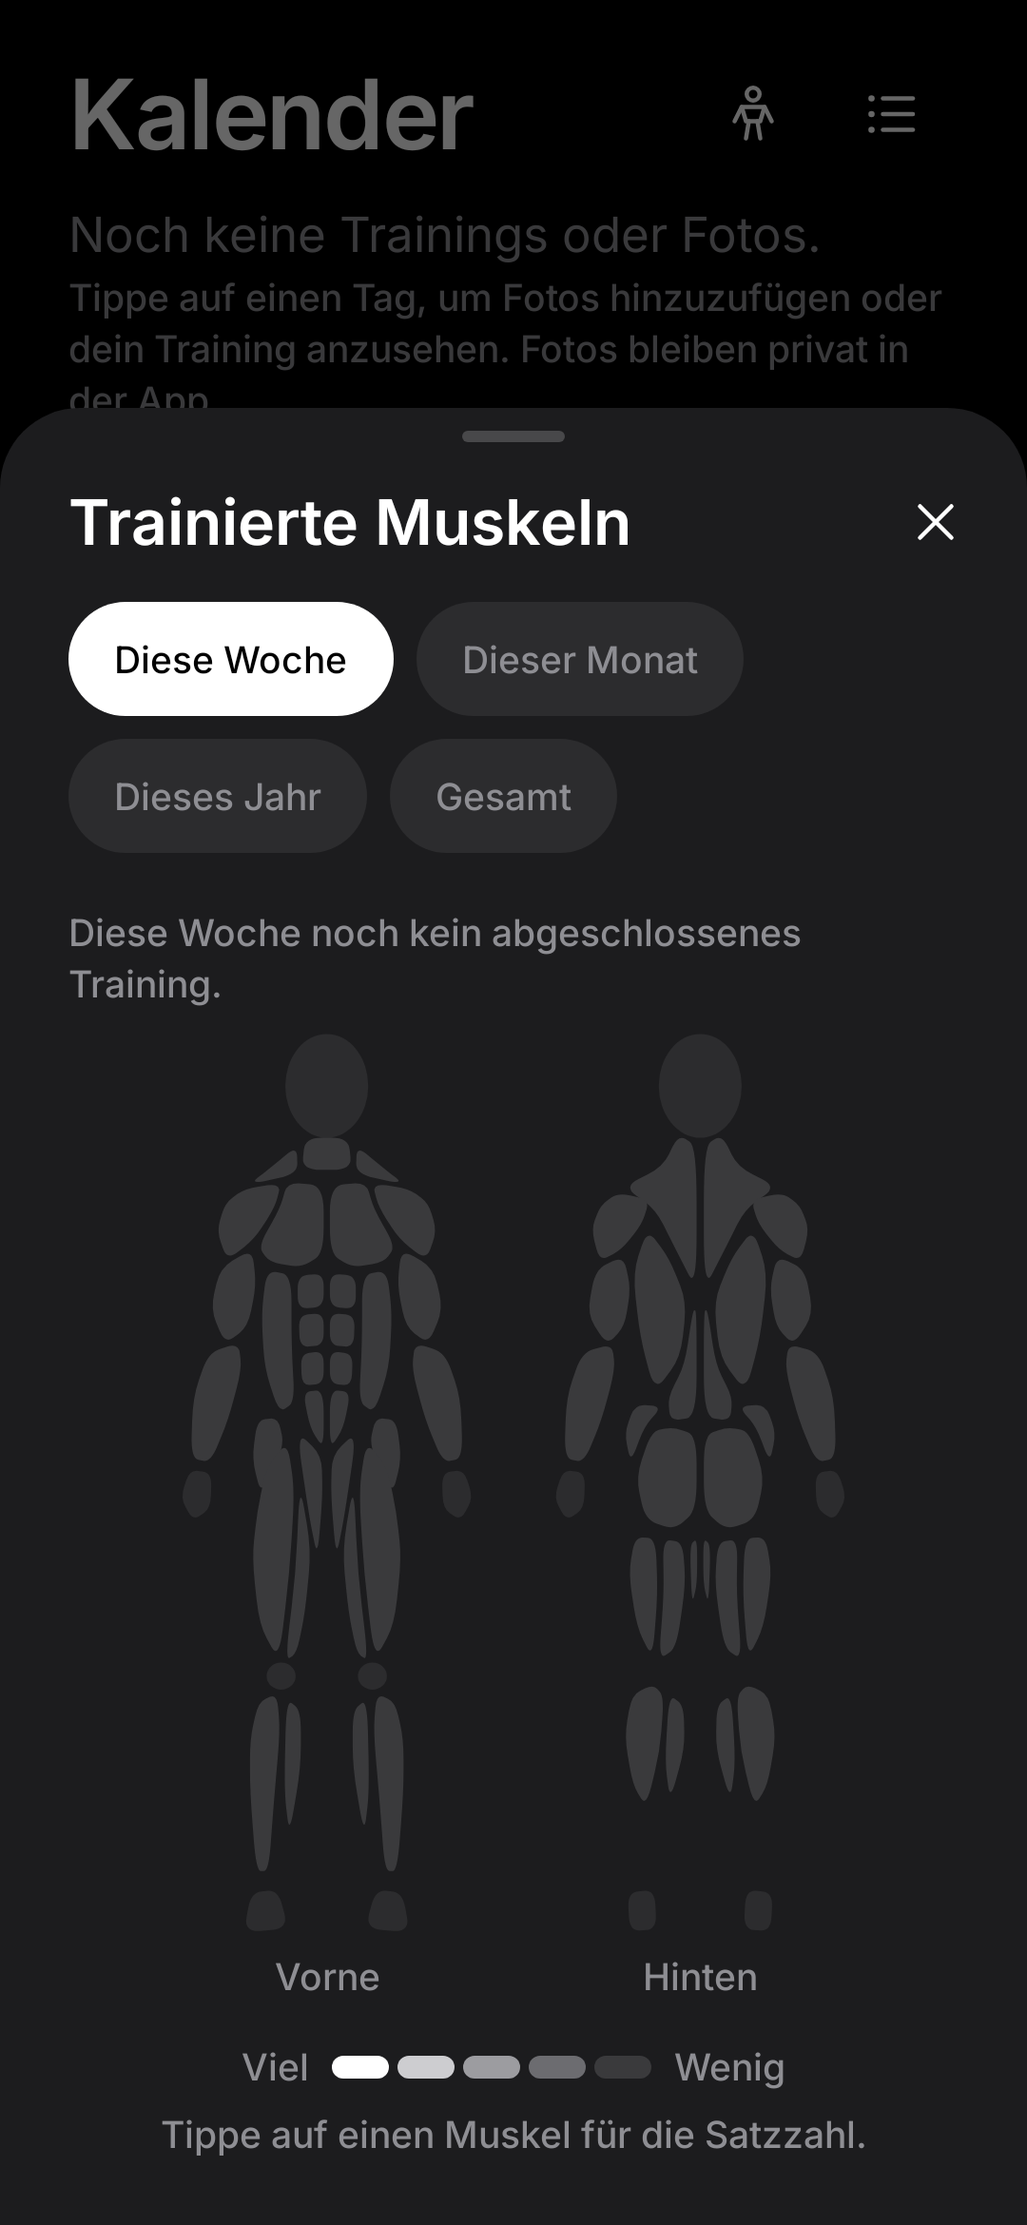
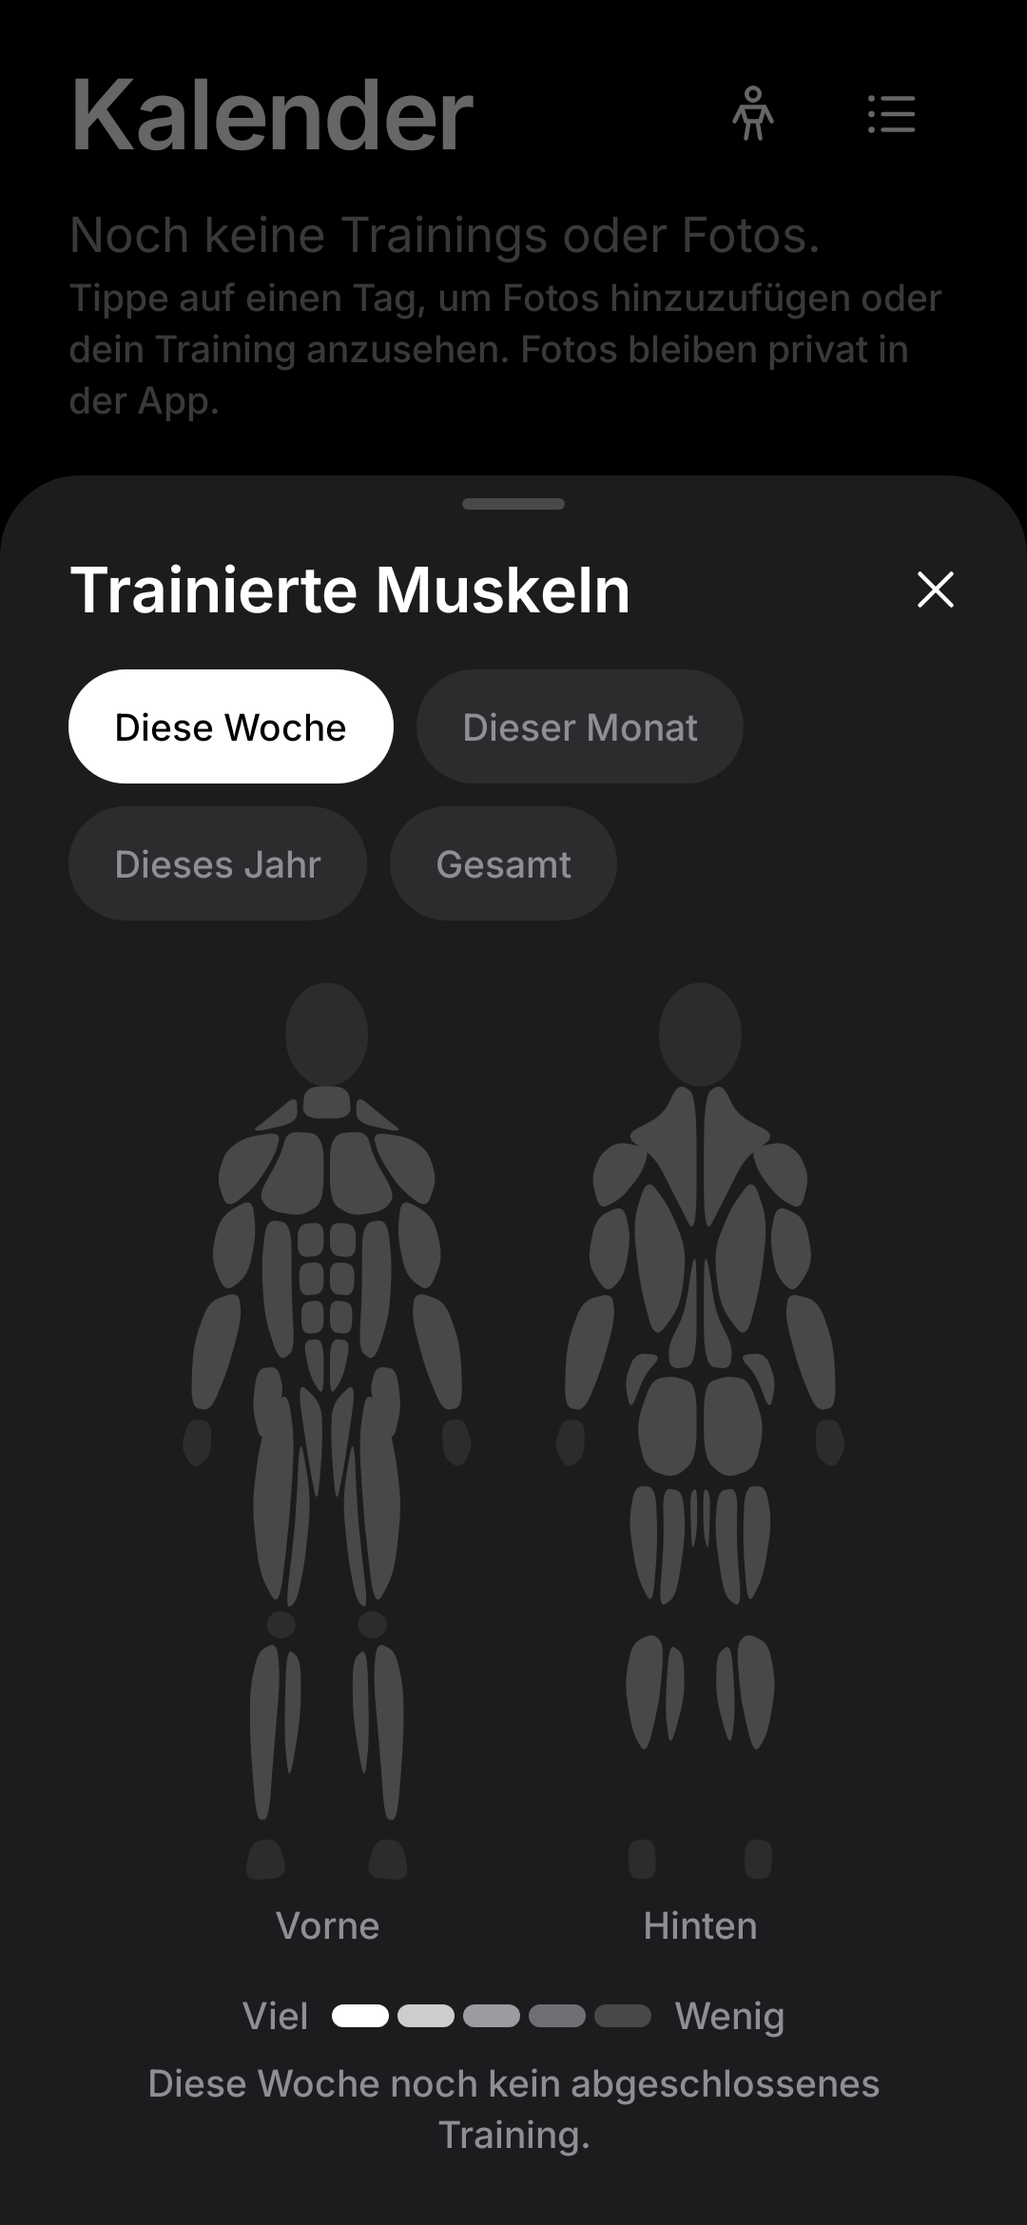
Muskel-Heatmap: Befunde aus dem Gegencheck, CI-Test scrollt zur Übungskarte
- ExerciseImageTapTest: Übungskarte liegt jetzt unter dem Muskel-Abschnitt, vorher hinscrollen
- Tipp-Erkennung mit rememberUpdatedState, Leer-Hinweis statt Layoutsprung, Text '+ 3 Sätze mittrainiert'
- Kontrast untrainierter Muskeln erhöht, toter String entfernt, Icon-Kommentar
- Tests: DB-Abfrage (nur abgehakte Sätze beendeter Trainings), Zeitzone, Hit-Test; App-Test robust um Mitternacht

Claude-Session: https://claude.ai/code/session_01PBv5TptMvgrVaxi2qeGDRd

diff --git a/shared/src/commonMain/kotlin/app/overfit/ui/muscles/MuscleMapViews.kt b/shared/src/commonMain/kotlin/app/overfit/ui/muscles/MuscleMapViews.kt
@@ -77,7 +77,7 @@ import kotlin.math.roundToInt
 
 /** Shade per level: 0 = untrained (dark grey) … [MuscleMap.LEVELS] = most (white). No accent colour. */
 internal val LevelColors = listOf(
-    Color(0xFF3A3A3C), Color(0xFF6C6C70), Color(0xFF9C9CA0), Color(0xFFCDCDD0), Color(0xFFFFFFFF),
+    Color(0xFF48484A), Color(0xFF707074), Color(0xFF9C9CA0), Color(0xFFCDCDD0), Color(0xFFFFFFFF),
 )
 
 /** Remembers the period of the calendar's muscle sheet. */
@@ -170,11 +170,14 @@ fun BodyMap(
         val density = LocalDensity.current
         val size = with(density) { Size(maxWidth.toPx(), (maxHeight - labelHeight).toPx().coerceAtLeast(1f)) }
         val layout = remember(size) { BodyLayout(size) }
-        val tap = if (onSelect == null) Modifier else Modifier.pointerInput(layout, selected, onSelect) {
+        // Latest selection/callback without restarting the gesture detector on every recomposition.
+        val current by androidx.compose.runtime.rememberUpdatedState(selected)
+        val select by androidx.compose.runtime.rememberUpdatedState(onSelect)
+        val tap = if (onSelect == null) Modifier else Modifier.pointerInput(layout) {
             detectTapGestures { c ->
                 val (back, p) = layout.toFigure(c)
                 val hit = BodyShapes.hit(if (back) BodyShapes.back else BodyShapes.front, p)
-                onSelect(if (hit == selected) null else hit)
+                select?.invoke(if (hit == current) null else hit)
             }
         }
         Canvas(
@@ -186,7 +189,7 @@ fun BodyMap(
                     val muscle = shape.muscle
                     val color = if (muscle == null) base else LevelColors[levels[muscle] ?: 0]
                     val faded = selected != null && muscle != selected
-                    drawPath(shape.path(layout, back), color, alpha = if (faded) 0.35f else 1f)
+                    drawPath(shape.path(layout, back), color, alpha = if (faded) 0.45f else 1f)
                 }
             }
         }
@@ -222,7 +225,7 @@ fun MuscleLegend(modifier: Modifier = Modifier) {
 
 /** Figure, legend and the line for the tapped muscle; shared by the calendar sheet and the training detail. */
 @Composable
-fun MuscleMapBody(loads: Map<Muscle, MuscleLoad>, figureHeight: Dp, modifier: Modifier = Modifier) {
+fun MuscleMapBody(loads: Map<Muscle, MuscleLoad>, figureHeight: Dp, modifier: Modifier = Modifier, emptyText: String? = null) {
     val m = LocalStrings.current.muscles
     var selected by remember { mutableStateOf<Muscle?>(null) }
     val levels = remember(loads) { MuscleMap.levels(loads) }
@@ -241,7 +244,7 @@ fun MuscleMapBody(loads: Map<Muscle, MuscleLoad>, figureHeight: Dp, modifier: Mo
         MuscleLegend()
         Spacer(Modifier.height(Space.s))
         val s = selected
-        val line = if (s == null) m.tapHint else (loads[s] ?: MuscleLoad()).let { m.load(m.muscle(s), it.primary, it.secondary) }
+        val line = if (s == null) (if (loads.isEmpty() && emptyText != null) emptyText else m.tapHint) else (loads[s] ?: MuscleLoad()).let { m.load(m.muscle(s), it.primary, it.secondary) }
         Text(
             line,
             Modifier.fillMaxWidth().testTag("muscle-line"),
@@ -315,11 +318,8 @@ fun MuscleMapSheetContent(
             }
             Spacer(Modifier.height(Space.m))
             if (loads != null) {
-                if (loads.isEmpty()) {
-                    Text(m.emptyPeriod(period), Modifier.fillMaxWidth().padding(bottom = Space.s), style = Theme.type.caption, tone = Tone.Muted)
-                }
-                // A new period starts without a selection.
-                androidx.compose.runtime.key(period) { MuscleMapBody(loads, figureHeight = 320.dp) }
+                // A new period starts without a selection; "nothing yet" replaces the tap hint (no layout jump).
+                androidx.compose.runtime.key(period) { MuscleMapBody(loads, figureHeight = 320.dp, emptyText = m.emptyPeriod(period)) }
             } else {
                 Spacer(Modifier.height(360.dp))
             }

diff --git a/app/src/test/java/app/overfit/data/MuscleSetsQueryTest.kt b/app/src/test/java/app/overfit/data/MuscleSetsQueryTest.kt
@@ -1,0 +1,67 @@
+package app.overfit.data
+
+import androidx.room.Room
+import androidx.test.core.app.ApplicationProvider
+import app.overfit.data.db.OverfitDatabase
+import app.overfit.domain.Exercise
+import app.overfit.domain.Muscle
+import app.overfit.domain.MuscleSetRow
+import app.overfit.domain.TrackingType
+import app.overfit.domain.Workout
+import kotlinx.coroutines.flow.first
+import kotlinx.coroutines.test.runTest
+import org.junit.After
+import org.junit.Assert.assertEquals
+import org.junit.Before
+import org.junit.Test
+import org.junit.runner.RunWith
+import org.robolectric.RobolectricTestRunner
+
+/** [WorkoutRepository.muscleSets]: only completed sets of finished workouts, one row per exercise entry. */
+@RunWith(RobolectricTestRunner::class)
+class MuscleSetsQueryTest {
+    private lateinit var db: OverfitDatabase
+    private lateinit var exercises: ExerciseRepository
+    private lateinit var workouts: WorkoutRepository
+    private var seq = 0
+
+    @Before
+    fun setUp() {
+        db = Room.inMemoryDatabaseBuilder<OverfitDatabase>(ApplicationProvider.getApplicationContext()).allowMainThreadQueries().build()
+        exercises = ExerciseRepository(db)
+        workouts = WorkoutRepository(db, clock = { 123L }, photoFiles = InMemoryPhotoFiles())
+    }
+
+    @After
+    fun tearDown() = db.close()
+
+    private suspend fun custom(name: String, primary: List<Muscle>, secondary: List<Muscle> = emptyList()): Exercise =
+        exercises.get(exercises.createCustom(CustomExerciseInput(name, TrackingType.REPS, 60, primary = primary, secondary = secondary)))!!
+
+    /** Workout with [ex] added once per entry; [done] completed sets of each entry (of 3). */
+    private fun workout(id: String, start: Long, vararg entries: Pair<Exercise, Int>): Workout {
+        var w = Workout.empty(id, start, id = id)
+        entries.forEach { (ex, _) -> w = w.addExercise(Workout.added(ex, emptyList()) { "g${seq++}" }) }
+        entries.forEachIndexed { i, (_, done) -> w.exercises[i].sets.take(done).forEach { s -> w = w.completeSet(s.id, start + 1) } }
+        return w
+    }
+
+    @Test
+    fun countsOnlyCompletedSetsOfFinishedWorkouts() = runTest {
+        val dips = custom("Dips", listOf(Muscle.TRICEPS), listOf(Muscle.CHEST))
+        val curl = custom("Curl", listOf(Muscle.BICEPS))
+        // Finished: dips twice (2 and 1 sets done), curl with nothing done.
+        workouts.finish(workout("f", 1000, dips to 2, dips to 1, curl to 0), endedAt = 2000)
+        // Still running: does not count.
+        workouts.save(workout("a", 5000, curl to 3))
+
+        val rows = workouts.muscleSets.first().sortedBy { it.sets }
+        assertEquals(
+            listOf(
+                MuscleSetRow(1000, listOf(Muscle.TRICEPS), listOf(Muscle.CHEST), 1),
+                MuscleSetRow(1000, listOf(Muscle.TRICEPS), listOf(Muscle.CHEST), 2),
+            ),
+            rows,
+        )
+    }
+}

diff --git a/shared/src/commonMain/kotlin/app/overfit/i18n/MuscleStrings.kt b/shared/src/commonMain/kotlin/app/overfit/i18n/MuscleStrings.kt
@@ -16,10 +16,9 @@ data class MuscleStrings(
     val muscle: (Muscle) -> String,
     /** Hint below the figure before anything is tapped. */
     val tapHint: String,
-    /** "Brust · 6 Sätze" plus the assisting part, e.g. "· 4 mittrainiert". */
+    /** "Brust · 6 Sätze" plus the assisting part, e.g. "+ 4 Sätze mittrainiert". */
     val load: (muscle: String, primary: Int, secondary: Int) -> String,
     val emptyPeriod: (MusclePeriod) -> String,
-    val emptyWorkout: String,
     /** Accessibility summary of the figure: the trained muscles, most first. */
     val summary: (List<String>) -> String,
 )
@@ -47,7 +46,7 @@ val MuscleGerman = MuscleStrings(
     tapHint = "Tippe auf einen Muskel für die Satzzahl.",
     load = { m, p, s ->
         when {
-            p > 0 && s > 0 -> "$m · ${setsDe(p)} · $s mittrainiert"
+            p > 0 && s > 0 -> "$m · ${setsDe(p)} + ${setsDe(s)} mittrainiert"
             p > 0 -> "$m · ${setsDe(p)}"
             s > 0 -> "$m · ${setsDe(s)} mittrainiert"
             else -> "$m · nicht trainiert"
@@ -61,7 +60,6 @@ val MuscleGerman = MuscleStrings(
             MusclePeriod.TOTAL -> "Noch kein abgeschlossenes Training."
         }
     },
-    emptyWorkout = "Keine abgeschlossenen Sätze.",
     summary = { if (it.isEmpty()) "Keine Muskeln trainiert" else "Trainiert: " + it.joinToString(", ") },
 )
 
@@ -85,7 +83,7 @@ val MuscleEnglish = MuscleStrings(
     tapHint = "Tap a muscle to see its sets.",
     load = { m, p, s ->
         when {
-            p > 0 && s > 0 -> "$m · ${setsEn(p)} · $s assisting"
+            p > 0 && s > 0 -> "$m · ${setsEn(p)} + ${setsEn(s)} assisting"
             p > 0 -> "$m · ${setsEn(p)}"
             s > 0 -> "$m · ${setsEn(s)} assisting"
             else -> "$m · not trained"
@@ -99,6 +97,5 @@ val MuscleEnglish = MuscleStrings(
             MusclePeriod.TOTAL -> "No finished training yet."
         }
     },
-    emptyWorkout = "No completed sets.",
     summary = { if (it.isEmpty()) "No muscles trained" else "Trained: " + it.joinToString(", ") },
 )

diff --git a/app/src/test/java/app/overfit/ui/MuscleMapTest.kt b/app/src/test/java/app/overfit/ui/MuscleMapTest.kt
@@ -50,6 +50,7 @@ import org.robolectric.RobolectricTestRunner
 import org.robolectric.annotation.Config
 import org.robolectric.annotation.GraphicsMode
 import java.io.File
+import kotlinx.datetime.atStartOfDayIn
 
 /**
  * Fabian's wish "Training Frequency" in the real app: calendar title → body icon → sheet with the muscles of this
@@ -103,16 +104,19 @@ class MuscleMapTest {
         store.setName("Fabi")
         store.completeOnboarding()
         val now = System.currentTimeMillis()
+        // "Push" must fall on today (and so this week) even right after midnight.
+        val startOfToday = realToday().atStartOfDayIn(kotlinx.datetime.TimeZone.currentSystemDefault()).toEpochMilliseconds()
+        val pushStart = maxOf(startOfToday, now - 10 * 60_000)
         // "Push" today (first exercise: two sets done), plus a calf workout more than a year ago.
         val pushLoads = runBlocking {
             data.seedCatalog().getOrThrow()
             data.importer.addSamples()
             val push = data.templates.templates.first().first { it.name == "Push" }
-            var w = Workout.fromTemplate(data.templates.get(push.id)!!, now - 10 * 60_000, id = "push")
+            var w = Workout.fromTemplate(data.templates.get(push.id)!!, pushStart, id = "push")
             val sets = w.exercises[0].sets
             w = w.setValues(sets[0].id, SetValues(60.0, 8)).completeSet(sets[0].id, w.startedAt + 60_000)
             w = w.setValues(sets[1].id, SetValues(60.0, 8)).completeSet(sets[1].id, w.startedAt + 120_000)
-            data.workouts.finish(w, endedAt = now - 60_000)
+            data.workouts.finish(w, endedAt = now)
 
             val calf = data.exercises.getActive().first { it.primaryMuscles == listOf(Muscle.CALVES) }
             val old = now - 400L * 24 * 3_600_000

diff --git a/shared/src/commonTest/kotlin/app/overfit/ui/muscles/BodyShapesTest.kt b/shared/src/commonTest/kotlin/app/overfit/ui/muscles/BodyShapesTest.kt
@@ -1,0 +1,37 @@
+package app.overfit.ui.muscles
+
+import androidx.compose.ui.geometry.Offset
+import app.overfit.domain.Muscle
+import app.overfit.domain.MuscleMap
+import kotlin.test.Test
+import kotlin.test.assertEquals
+import kotlin.test.assertNull
+import kotlin.test.assertTrue
+
+class BodyShapesTest {
+    @Test fun everyShownMuscleHasARegion() {
+        val drawn = (BodyShapes.front + BodyShapes.back).mapNotNull { it.muscle }.toSet()
+        assertEquals(MuscleMap.shown.toSet(), drawn)
+    }
+
+    @Test fun tapOnARegionCentreHitsThatMuscle() {
+        listOf(BodyShapes.front, BodyShapes.back).forEach { shapes ->
+            shapes.filter { it.muscle != null }.forEach { shape ->
+                assertEquals(shape.muscle, BodyShapes.hit(shapes, shape.center), "${shape.muscle} at ${shape.center}")
+            }
+        }
+    }
+
+    @Test fun headAndEmptySpaceHitNothingButANearMissOnASmallRegionCounts() {
+        assertNull(BodyShapes.hit(BodyShapes.front, Offset(50f, 14f))) // head
+        assertNull(BodyShapes.hit(BodyShapes.front, Offset(5f, 100f))) // beside the figure
+        // Just outside the back adductor sliver (x 48–49.4) still selects it.
+        assertEquals(Muscle.ADDUCTORS, BodyShapes.hit(BodyShapes.back, Offset(47.2f, 108f)))
+    }
+
+    @Test fun figuresAreMirrored() {
+        BodyShapes.front.filter { it.oval == null && it.muscle != null }.forEach { s ->
+            assertTrue(s.points.all { it.x in 15f..85f && it.y in 0f..180f })
+        }
+    }
+}

diff --git a/shared/src/commonTest/kotlin/app/overfit/domain/MuscleMapTest.kt b/shared/src/commonTest/kotlin/app/overfit/domain/MuscleMapTest.kt
@@ -111,4 +111,16 @@ class MuscleMapTest {
         assertEquals(MuscleLoad(primary = 2), loads[Muscle.CHEST])
         assertEquals(MuscleLoad(secondary = 2), loads[Muscle.TRICEPS])
     }
+
+    @Test fun daysFollowTheLocalZoneNotUtc() {
+        // Berlin (UTC+1 in November): 31 Oct 23:30 is October, 1 Nov 0:30 is November.
+        val berlin = TimeZone.of("Europe/Berlin")
+        val lateOctober = LocalDateTime(LocalDate(2026, 10, 31), LocalTime(23, 30)).toInstant(berlin).toEpochMilliseconds()
+        val earlyNovember = LocalDateTime(LocalDate(2026, 11, 1), LocalTime(0, 30)).toInstant(berlin).toEpochMilliseconds()
+        val rows = listOf(MuscleSetRow(lateOctober, listOf(Muscle.CHEST), emptyList(), 1), MuscleSetRow(earlyNovember, listOf(Muscle.LATS), emptyList(), 1))
+        val today = LocalDate(2026, 11, 4)
+        assertEquals(setOf(Muscle.LATS), MuscleMap.forPeriod(rows, MusclePeriod.MONTH, today, DayOfWeek.MONDAY, berlin).keys)
+        // Same instants, read in UTC: 1 Nov 0:30 Berlin is 31 Oct 23:30 UTC → nothing in November.
+        assertTrue(MuscleMap.forPeriod(rows, MusclePeriod.MONTH, today, DayOfWeek.MONDAY, TimeZone.UTC).isEmpty())
+    }
 }

diff --git a/shared/src/commonMain/kotlin/app/overfit/ui/components/Icons.kt b/shared/src/commonMain/kotlin/app/overfit/ui/components/Icons.kt
@@ -146,7 +146,6 @@ fun LineIcon(icon: Icon, size: Dp = 24.dp, color: Color = Theme.colors.foregroun
                 line(3.5f, 10f, 20.5f, 10f)
                 drawCircle(color, 1.1f * u, p(16.5f, 14.25f))
             }
-            // List view: three rows, each with a dot and a line.
             // Body map (calendar title): small standing figure.
             Icon.Body -> {
                 circle(12f, 5f, 2.25f)
@@ -156,6 +155,7 @@ fun LineIcon(icon: Icon, size: Dp = 24.dp, color: Color = Theme.colors.foregroun
                 line(10.5f, 14.5f, 9.5f, 20.5f)
                 line(13.5f, 14.5f, 14.5f, 20.5f)
             }
+            // List view: three rows, each with a dot and a line.
             Icon.List -> {
                 for (y in listOf(6.5f, 12f, 17.5f)) {
                     drawCircle(color, 1.1f * u, p(5.5f, y))

diff --git a/app/src/test/java/app/overfit/ui/ExerciseImageTapTest.kt b/app/src/test/java/app/overfit/ui/ExerciseImageTapTest.kt
@@ -7,6 +7,7 @@ import androidx.compose.ui.test.junit4.v2.createComposeRule
 import androidx.compose.ui.test.onNodeWithContentDescription
 import androidx.compose.ui.test.onNodeWithText
 import androidx.compose.ui.test.performClick
+import androidx.compose.ui.test.performScrollTo
 import androidx.room.Room
 import androidx.test.core.app.ApplicationProvider
 import app.overfit.ai.Providers
@@ -118,7 +119,8 @@ class ExerciseImageTapTest {
             }
         }
         waitFor("1/2 erledigt")
-        compose.onNodeWithContentDescription("Details zu Bench Press").performClick()
+        // The card sits below "Trainierte Muskeln", out of view on a small screen.
+        compose.onNodeWithContentDescription("Details zu Bench Press").performScrollTo().performClick()
         assertEquals("wg:bench-press", opened)
     }
 

diff --git a/docs/DECISIONS.md b/docs/DECISIONS.md
@@ -1289,6 +1289,6 @@ docs/monetization.md „Rechnung (Session AB)“; Schwellen: „Kleinunternehmer
 - **Stufen:** 0 = untrainiert (dunkelgrau `#3A3A3C`), 1–4 nach Vierteln des am meisten trainierten Muskels im Zeitraum (oberste Stufe Weiß). Relativ statt absoluter Satzzahlen, damit Woche und Gesamt gleich gut lesbar sind. Legende „Viel ▬ Wenig“ als fünf Stufen-Flächen.
 - **Zeiträume:** Kalenderzeiträume (Diese Woche ab Wochenstart der Sprache wie im Kalender: DE Montag, EN Sonntag; Dieser Monat; Dieses Jahr; Gesamt), maßgeblich ist der Trainingsbeginn. Gewählter Zeitraum wird gemerkt (`muscles.period`), Standard „Diese Woche“.
 - **Popup als Ausnahme:** CLAUDE.md sagt „keine Popups“, Fabian wünscht aber ausdrücklich ein Popup. Umsetzung als Bottom-Sheet (Compose `Dialog`, Fläche `surface`, oben rund, ohne Rand): ✕, Zurück, Tipp über das Sheet oder Herunterziehen schließen. Öffnen über ein neues Körper-Icon in der Kalender-Titelzeile.
-- **Antippen:** Tipp auf einen Muskel zeigt darunter „Brust · 6 Sätze · 4 mittrainiert“ (direkte und mittrainierte Sätze getrennt statt „7,5 Sätze“), die übrigen Muskeln werden kurz blasser (Hervorhebung ohne Umriss). Erneuter Tipp hebt die Auswahl auf. Kleine Flächen (Adduktoren) treffen auch bei knappem Daneben-Tippen (nächste Region im Umkreis).
+- **Antippen:** Tipp auf einen Muskel zeigt darunter „Brust · 6 Sätze + 4 Sätze mittrainiert“ (direkte und mittrainierte Sätze getrennt statt „7,5 Sätze“), die übrigen Muskeln werden kurz blasser (Hervorhebung ohne Umriss). Erneuter Tipp hebt die Auswahl auf. Kleine Flächen (Adduktoren) treffen auch bei knappem Daneben-Tippen (nächste Region im Umkreis).
 - **Trainingsdetail:** Abschnitt „Trainierte Muskeln“ für genau dieses Training (ohne Zeitraumwahl), Stufen relativ zum stärksten Muskel des Trainings. Ohne abgehakte Sätze entfällt der Abschnitt.
 - **Tests:** `MuscleMapTest` (shared: primär/sekundär, Beine, Zeitraumgrenzen Woche/Monat/Jahr inkl. Wochenstart, Stufen), `MuscleMapTest` (App, Robolectric: Sheet öffnen/schließen per ✕ und Tipp daneben, Zeitraumwechsel und Merken, Tipp auf Muskel, Trainingsdetail), `MuscleMapShotTest` (Screenshots).

diff --git a/docs/PROGRESS.md b/docs/PROGRESS.md
@@ -19,7 +19,7 @@
 **Erledigt:** Kalender → neues Körper-Icon in der Titelzeile öffnet ein Bottom-Sheet „Trainierte Muskeln“: eigene, stilisierte
 Figur vorne und hinten, jeder Muskel je nach Sätzen im Zeitraum von Dunkelgrau (untrainiert) bis Weiß (am meisten), Legende
 „Viel ▬ Wenig“. Zeitraum per Chips: Diese Woche, Dieser Monat, Dieses Jahr, Gesamt (wird gemerkt). Gezählt werden abgehakte
-Sätze beendeter Trainings, primäre Muskeln voll, mittrainierte halb. Tipp auf einen Muskel zeigt „Brust · 6 Sätze · 4 mittrainiert“.
+Sätze beendeter Trainings, primäre Muskeln voll, mittrainierte halb. Tipp auf einen Muskel zeigt „Brust · 6 Sätze + 4 Sätze mittrainiert“.
 Die Trainingsdetail-Ansicht zeigt dieselbe Figur klein für genau dieses Training. Grafik selbst gezeichnet (keine fremde Vorlage),
 keine DB-Migration. Details in DECISIONS.md. Tests: `MuscleMapTest` (shared und App), `MuscleMapShotTest`.
 Screenshots: `docs/screenshots/muskel-heatmap/`.
